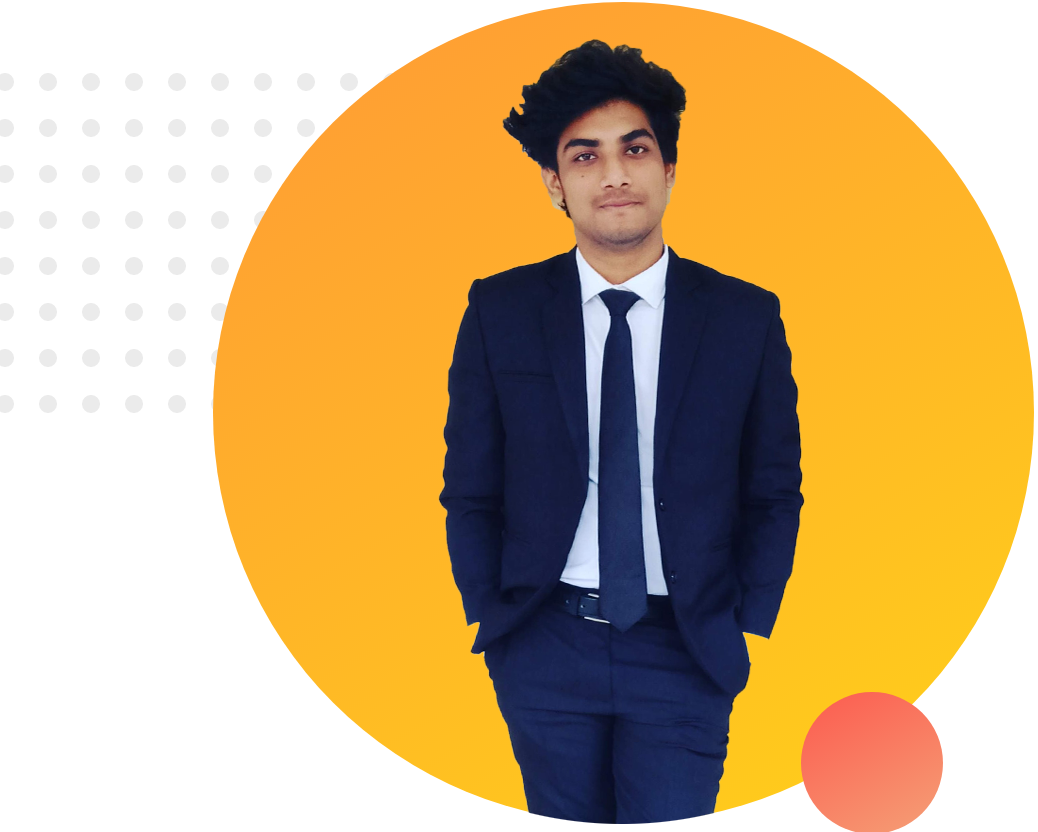
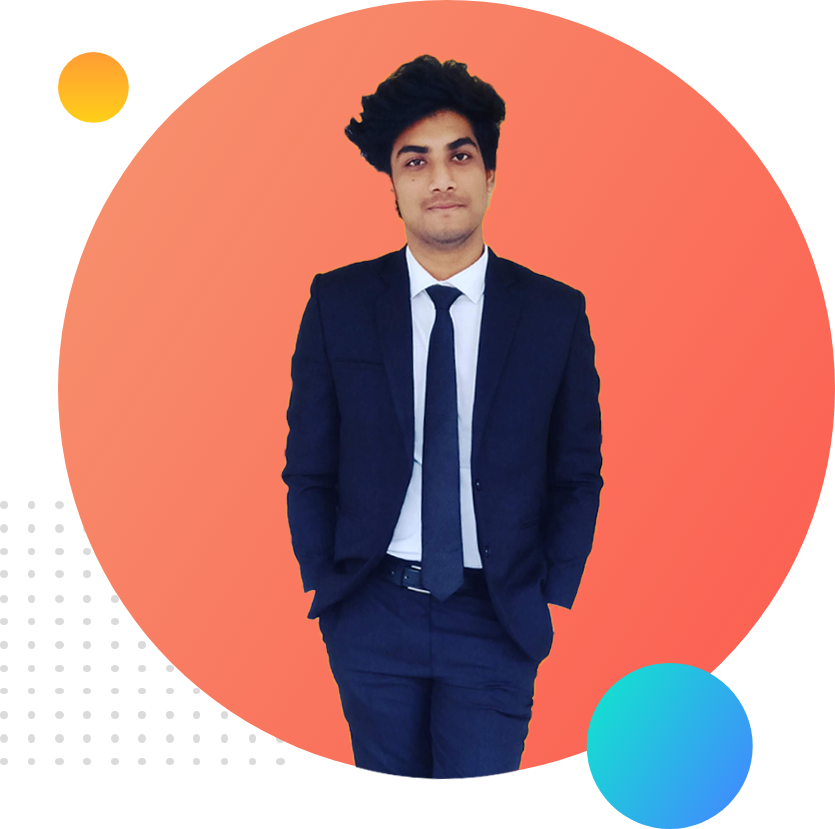
Styling Experience Cards

diff --git a/index.html b/index.html
@@ -1,36 +1,101 @@
 <!DOCTYPE html>
 <html lang="en">
-<head>
-    <meta charset="UTF-8">
-    <meta name="viewport" content="width=device-width, initial-scale=1.0">
+  <head>
+    <meta charset="UTF-8" />
+    <meta name="viewport" content="width=device-width, initial-scale=1.0" />
     <title>Juhan's Portfolio</title>
-    <link rel="preconnect" href="https://fonts.gstatic.com">
-    <link href="https://fonts.googleapis.com/css2?family=Poppins:wght@500&display=swap" rel="stylesheet">
-    <link rel="stylesheet" href="style.css">
-</head>
-<body>
+    <link rel="preconnect" href="https://fonts.gstatic.com" />
+    <link
+      href="https://fonts.googleapis.com/css2?family=Poppins:wght@500&display=swap"
+      rel="stylesheet"
+    />
+    <link rel="stylesheet" href="style.css" />
+  </head>
+  <body>
     <section>
+      <div class="developer-image">
         <div class="flex-container">
-            <div class="introduction">
-                <h1>Welcome To</h1>
-                <h1><span class="text-highlight">Juhan's </span>Portfolio</h1>
+          <div class="introduction">
+            <h1>Welcome To</h1>
+            <h1><span class="text-highlight">Juhan's </span>Portfolio</h1>
 
-                <h3>Junior Semi Professional Web Developer</h3>
-                <p>As a tenacious self-taught programmer, I use continuous iteration to produce       results quickly and continuously improve products. <br>
-                
-                I have contributed to open source projects, worked on engineering teams, and always stay attuned to the newest frameworks. <br>
-                </p>
+            <h3>Junior Semi Professional Web Developer</h3>
+            <p>
+              As a tenacious self-taught programmer, I use continuous iteration
+              to produce results quickly and continuously improve products.
+              <br />
 
-                <div class="hire-btn">
-                    <a class="link-btn" target="_blank" href="https://bit.ly/3bjI4Nd">HIRE ME</a>
-                </div>
+              I have contributed to open source projects, worked on engineering
+              teams, and always stay attuned to the newest frameworks. <br />
+            </p>
+
+            <div class="hire-btn">
+              <a class="link-btn" target="_blank" href="https://bit.ly/3bjI4Nd"
+                >HIRE ME</a
+              >
+            </div>
+          </div>
+
+          <div class="profile-pic">
+            <img
+              src="resource/profile1.png"
+              height="490px"
+              width="500px"
+              alt=""
+              srcset=""
+            />
+          </div>
+        </div>
+      </div>
+    </section>
+
+    <section class="dream-area" style="margin-top: 0.55%">
+      <div class="flex-container container2">
+        <div class="profile-pic" style="margin-left: 0px">
+          <img
+            src="resource/profile2.png"
+            alt=""
+            srcset=""
+            height="490px"
+            width="500px"
+          />
+        </div>
+        <div class="introduction secound-intro" style="margin-top: 3%">
+          <h2 style="font-size: 40px; margin: 0px">Big Dream</h2>
+          <h3>Become a Web Developer</h3>
+          <p style="margin-top: 25px; width: 80%">
+                I want to be a full stack web developer. <br />
+                I Just want to explore the programming world, I want to learn react
+                properly in next 6 months. And then I will work on some project then
+                I'll take internship in a international company.
+          </p>
+
+          <div class="resume-btn hire-btn">
+            <a class="link-btn" target="_blank" href="https://bit.ly/3bjI4Nd">
+                DOWNLOAD RESUME
+            </a>
+          </div>
+        </div>
+      </div>
+    </section>
+
+    <section class="expericence-area">
+        <h2 style="margin:0;" class="exp">Expericence</h2>
+
+        <div class="flex-container container3">
+            <div class="card">
+                <h2>Full Stack Web Developer</h2>
+                <h3>2021-Present | Pro Level Developer</h3>
+                <p>I am the master of HTML, CSS and Javascript. I know everything needed to make a website function, efficient. I didn't stop with the web. I went beyond with most popular Javascript framework called Vue JS. I even know the deployment, server and security. I will give you 100% web solution</p>
             </div>
 
-            <div class="profile-pic">
-                <img src="resource/profile1.png" height="400px" width="500px" alt="" srcset="">
+            <div class="card" style="padding-left: 6.5%;">
+                <h2>Baby Web Developer</h2>
+                <h3>2020-2021 | Programming Hero Learner</h3>
+                <p>They didn't offer me a job. But I made myself as a remove web developer. I made their website and showed it to them. They liked it. And uploaded the content. It was fun working at Programming Hero.</p>
             </div>
         </div>
-    
+
     </section>
-</body>
+  </body>
 </html>

diff --git a/style.css b/style.css
@@ -1,6 +1,10 @@
 body{
     font-family: 'Poppins', sans-serif;
-    margin: 7%;
+    margin: 0%;
+    background-repeat: no-repeat;
+}
+
+.developer-image{
     background-image: url("/resource/top-banner.png");
     background-repeat: no-repeat;
 }
@@ -21,11 +25,16 @@ h1{
 .flex-container{
     display: flex;
     flex-direction: row;
+    padding-left: 6.5%;
+    padding-top: 5%;
+    padding-right: 5%;
 }
 
 .profile-pic{
-    margin-left: 13%;
-    margin-top: 1%;
+    margin-left: 12%;
+    margin-top: -2%;
+    width: 50%;
+    justify-content: end;
 }
 
 h3{
@@ -56,4 +65,30 @@ p{
 
 .hire-btn{
     margin-top: 35px;
+}
+
+.secound-intro{
+    margin-left: 10%;
+}
+
+.container2{
+    background-image: url("/resource/dream-bg.png");
+    background-repeat: no-repeat;
+    background-position: right;
+    background-position-y: 240px;
+}
+
+.exp{
+    padding-left: 6.5%;
+    padding-top: 5%;
+    padding-right: 5%;
+}
+
+.card{
+    width: 40%;
+
+}
+
+.container3{
+    justify-content: center;
 }
